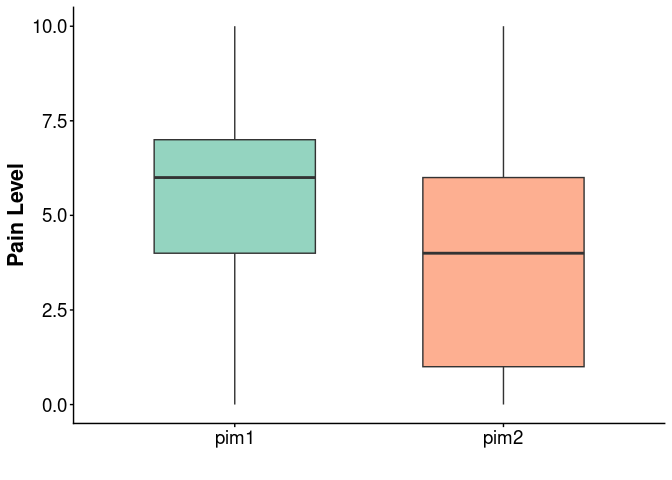
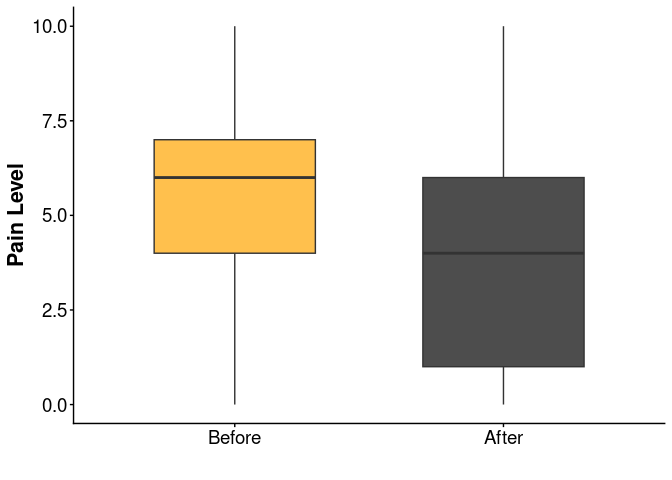
group project with knitted .md file

diff --git a/Group-Project-[Patchett].md b/Group-Project-[Patchett].md
@@ -3,17 +3,32 @@ Group Project
 Lucien Patchett
 2025-10-30
 
-\#Question Can music be used an an analgesic in patients with
-Fibromyalgia?
+\#Discussion Fibromyalgia is a medical condition that presents through
+symptoms “including fatigue, sleep disturbances, cognitive dysfunction,
+and depressive episodes… chronic fatigue syndrome, irritable bowel
+syndrome (IBS), irritable bladder syndrome or interstitial cystitis, and
+temporomandibular disorder (TMD)” (Clauw, 2009). Patients with
+fibromyalgia often face daily challenges as they struggle to live a
+normal life due to the limited visual indicators that can be perceived
+by those around them. With this condition occurring in 2-8% of the
+global population (Clauw, 2014) it has become crucial that we find ways
+to mitigate the effects on patients. There is significant research on
+the effects of music as a non-pharmaceutical intervention to reduce pain
+levels in patients, however in this paper we will analyze the effects of
+non-musical (pink) noise as it compares to music to determine if there
+is significance in music as a treatment option for fibromyalgia.
 
-\#Hypothesis Participants who present with a diagnosis of Fibromyalgia
-will demonstrate a decrease to nociception in response to listening to
-music.
+\#Question Can music and/or pink noise be used as an analgesic in
+patients with fibromyalgia?
 
-\#Visualizations We decided to use a Boxplot in order to best visualize
-the range of reported values from patients.
+\#Hypothesis Music and pink noise will lead to a decrease in nociception
+in patients with a diagnosis of fibromyalgia.
 
-\#Pic1 and Pic2 code chunk
+\#Prediction Participants who present with a diagnosis fibromyalgia will
+find a greater decrease in nociception when listening to music when
+compared to “pink” noise.
+
+\#pic and pim boxplot
 
 ``` r
 library(ggplot2)
@@ -35,22 +50,56 @@ library(dplyr)
 ``` r
 data <- read.csv("dataset.csv")
 
-# Pivot pic1 and pic2 into long format
-data_long <- data %>%
-  pivot_longer(cols = c(pic1, pic2), names_to = "treatment", values_to = "value")
+# Pivot pim1 and pim2 into long format
+data_long_pim <- data %>%
+  pivot_longer(cols = c(pic1,pic2,pim1,pim2), names_to = "treatment", values_to = "value")
 
 # Make boxplot
-ggplot(data_long, aes(x = treatment, y = value, fill = treatment)) +
+ggplot(data_long_pim, aes(x = treatment, y = value, fill = treatment)) +
   geom_boxplot(alpha = 0.7, width = 0.6) +
   theme_classic() +
-  scale_fill_brewer(palette = "Set2") +
+  scale_fill_manual(values = c("pic1" = "Red", "pic2" = "Green", "pim1" = "Orange", "pim2" = "Black")) +
   ylab("Pain Level") +
   xlab("") +
   theme(
     axis.text = element_text(size = 14),
     axis.title = element_text(size = 16, face = "bold"),
     legend.position = "none"
-  )
+  )+
+    scale_x_discrete(labels = c("pic1" = "Before Noise", "pic2" = "After Music", "pim1" = "Before Music", "pim2" = "After Music"))
+```
+
+    ## Warning: Removed 92 rows containing non-finite outside the scale range
+    ## (`stat_boxplot()`).
+
+![](Group-Project-%5BPatchett%5D_files/figure-gfm/code%20chunk%20pim/pic-1.png)<!-- -->
+
+\#Pic1 and Pic2 code chunk
+
+``` r
+library(ggplot2)
+library(tidyr)
+library(dplyr)
+
+data <- read.csv("dataset.csv")
+
+# Pivot pic1 and pic2 into long format
+data_long <- data %>%
+  pivot_longer(cols = c(pic1,pic2), names_to = "treatment", values_to = "value")
+
+# Make boxplot
+ggplot(data_long, aes(x = treatment, y = value, fill = treatment)) +
+  geom_boxplot(alpha = 0.7, width = 0.6) +
+  theme_classic() +
+  scale_fill_manual(values = c("pic1" = "Red", "pic2" = "Green")) +
+  ylab("Pain Level") +
+  xlab("") +
+  theme(
+    axis.text = element_text(size = 14),
+    axis.title = element_text(size = 16, face = "bold"),
+    legend.position = "none"
+  )+
+  scale_x_discrete(labels = c("pic1" = "Before", "pic2" = "After"))
 ```
 
     ## Warning: Removed 46 rows containing non-finite outside the scale range
@@ -69,20 +118,21 @@ data <- read.csv("dataset.csv")
 
 # Pivot pim1 and pim2 into long format
 data_long_pim <- data %>%
-  pivot_longer(cols = c(pim1, pim2), names_to = "treatment", values_to = "value")
+  pivot_longer(cols = c(pim1,pim2), names_to = "treatment", values_to = "value")
 
 # Make boxplot
 ggplot(data_long_pim, aes(x = treatment, y = value, fill = treatment)) +
   geom_boxplot(alpha = 0.7, width = 0.6) +
   theme_classic() +
-  scale_fill_brewer(palette = "Set2") +
+  scale_fill_manual(values = c("pim1" = "Orange", "pim2" = "Black")) +
   ylab("Pain Level") +
   xlab("") +
   theme(
     axis.text = element_text(size = 14),
     axis.title = element_text(size = 16, face = "bold"),
     legend.position = "none"
-  )
+  )+
+    scale_x_discrete(labels = c("pim1" = "Before", "pim2" = "After"))
 ```
 
     ## Warning: Removed 46 rows containing non-finite outside the scale range
@@ -90,8 +140,43 @@ ggplot(data_long_pim, aes(x = treatment, y = value, fill = treatment)) +
 
 ![](Group-Project-%5BPatchett%5D_files/figure-gfm/code%20chunk%20pim-1.png)<!-- -->
 
-\#Accompanying Analysis Code Chunk We could use a PCA for further
-analysis of our data set as a way to group by age so that we can
-visualize if there is any correlation between age and reduction in pain.
-From there we would be able to run further testing to see how the
-nervous systems aging process might effect nociception.
+``` r
+library(ggplot2)
+library(tidyr)
+library(dplyr)
+
+data <- read.csv("dataset.csv")
+
+# Pivot pic2 and pim2 into long format
+data_long_pim <- data %>%
+  pivot_longer(cols = c(pic2,pim2), names_to = "treatment", values_to = "value")
+
+# Make boxplot
+ggplot(data_long_pim, aes(x = treatment, y = value, fill = treatment)) +
+  geom_boxplot(alpha = 0.7, width = 0.6) +
+  theme_classic() +
+  scale_fill_manual(values = c("pic2" = "Green", "pim2" = "Black")) +
+  ylab("Pain Level") +
+  xlab("") +
+  theme(
+    axis.text = element_text(size = 14),
+    axis.title = element_text(size = 16, face = "bold"),
+    legend.position = "none"
+  )+
+    scale_x_discrete(labels = c("pic2" = "After Noise", "pim2" = "After Music"))
+```
+
+    ## Warning: Removed 46 rows containing non-finite outside the scale range
+    ## (`stat_boxplot()`).
+
+![](Group-Project-%5BPatchett%5D_files/figure-gfm/code%20chunk%20pim%20vs%20pic-1.png)<!-- -->
+
+\#Works Cited OpenAI. (2025). ChatGPT (GPT-5) \[Large language model\].
+OpenAI. <https://chat.openai.com/>
+
+Clauw, D. J. (2009). Fibromyalgia: An Overview. The American Journal of
+Medicine, 122(12), S3–S13.
+<https://doi.org/10.1016/j.amjmed.2009.09.006>
+
+Clauw, D. J. (2014). Fibromyalgia. JAMA, 311(15), 1547.
+<https://doi.org/10.1001/jama.2014.3266>

diff --git a/Warm-up-mosquitoes-[patchett].md b/Warm-up-mosquitoes-[patchett].md
@@ -1,7 +1,7 @@
 Warm-up mini-Report: Mosquito Blood Hosts in Salt Lake City, Utah
 ================
 Lucien Patchett
-2025-10-09
+2025-11-04
 
 - [ABSTRACT](#abstract)
 - [BACKGROUND](#background)
